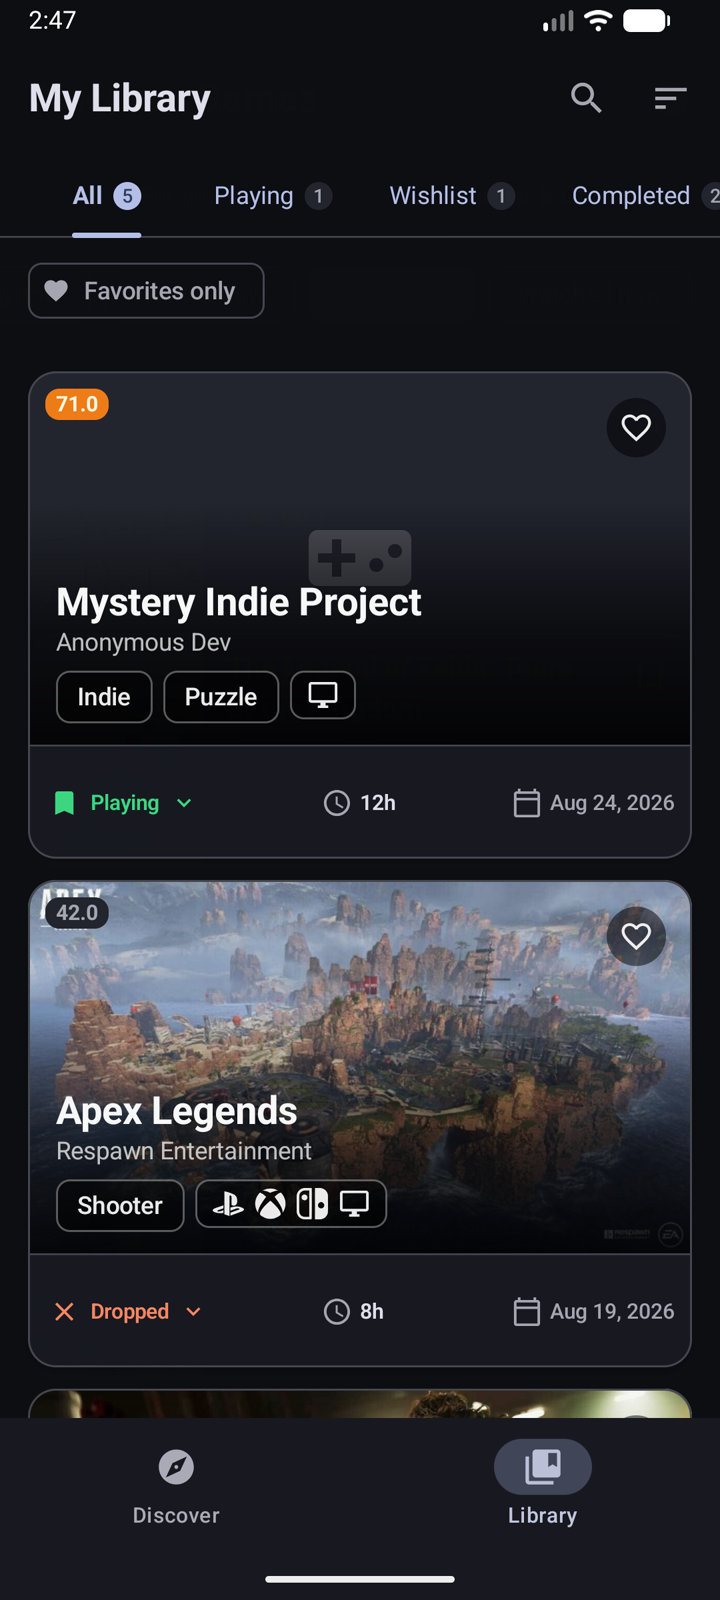
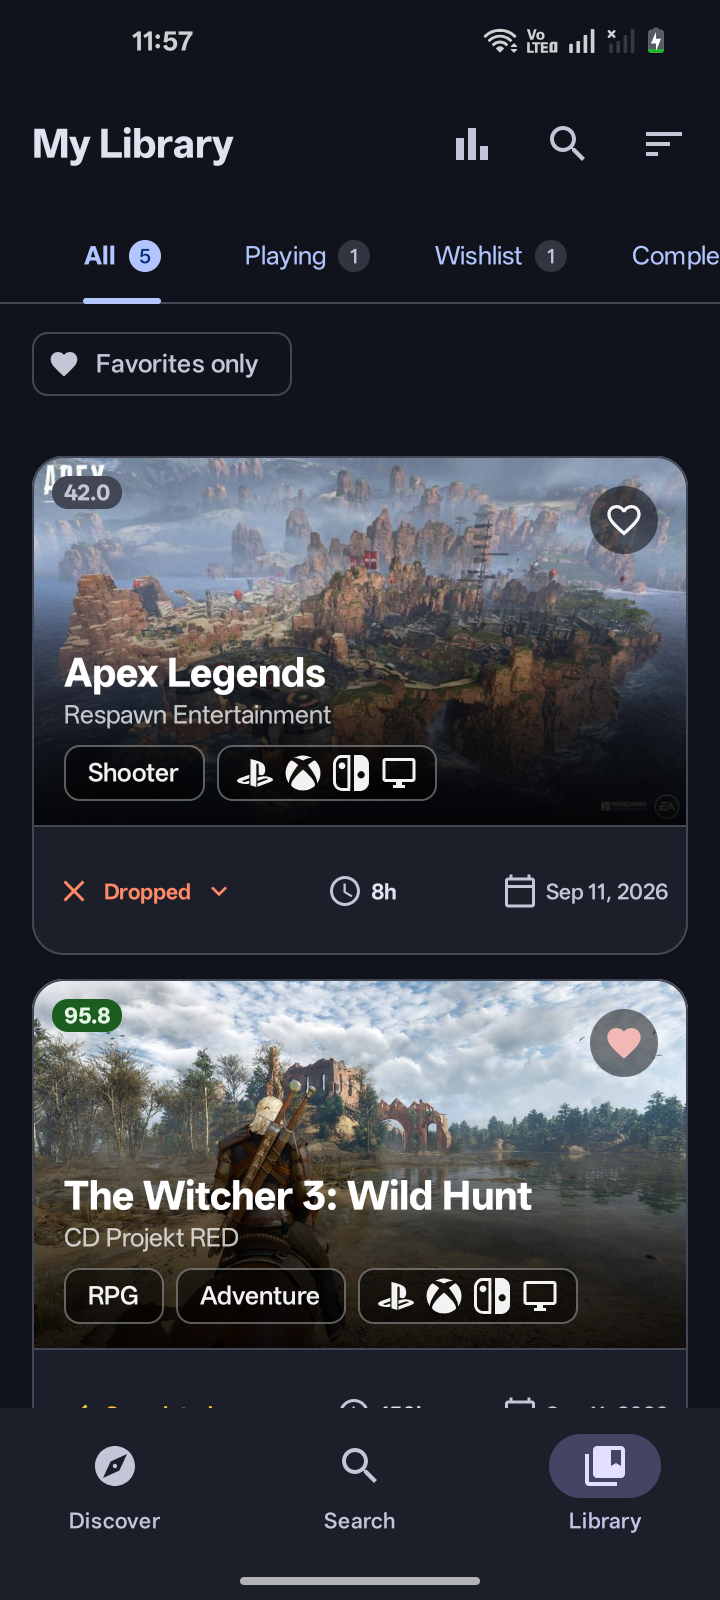
release: prepare v1.0.3 portfolio release

diff --git a/app/src/androidTest/java/io/github/typenil/gametracker/navigation/DemoNavigationFixture.kt b/app/src/androidTest/java/io/github/typenil/gametracker/navigation/DemoNavigationFixture.kt
@@ -1,0 +1,136 @@
+package io.github.typenil.gametracker.navigation
+
+import android.content.Context
+import dagger.hilt.android.EntryPointAccessors
+import io.github.typenil.gametracker.core.data.repository.GameRepository
+import io.github.typenil.gametracker.core.data.repository.LibraryRepository
+import io.github.typenil.gametracker.core.data.repository.UserPreferencesRepository
+import io.github.typenil.gametracker.core.database.GameTrackerDatabase
+import io.github.typenil.gametracker.core.model.AppResult
+import io.github.typenil.gametracker.core.model.LibraryEntry
+import io.github.typenil.gametracker.core.model.LibraryStatus
+import kotlinx.coroutines.Dispatchers
+import kotlinx.coroutines.runBlocking
+import kotlinx.coroutines.withContext
+
+/**
+ * Owns the persistent state required by navigation tests.
+ *
+ * Instrumentation classes share the installed application's Room and DataStore files, and their
+ * execution order is not a fixture contract. The developer-tools tests deliberately clear the
+ * library, while the demo seeder deliberately refuses to repopulate a resolved install. Resetting
+ * the exact catalog/library slice here keeps navigation tests independent without weakening that
+ * production behavior.
+ */
+internal object DemoNavigationFixture {
+
+    fun install(context: Context) {
+        val entryPoint = EntryPointAccessors.fromApplication(
+            context.applicationContext,
+            DebugNavigationFixtureEntryPoint::class.java,
+        )
+
+        runBlocking {
+            withContext(Dispatchers.IO) {
+                entryPoint.database().clearAllTables()
+            }
+            requireSuccess(
+                entryPoint.userPreferencesRepository().clearRecommendationPreferences(),
+                "clear recommendation preferences",
+            )
+
+            requiredGameIds.forEach { gameId ->
+                requireSuccess(
+                    entryPoint.gameRepository().refreshGameDetails(gameId, force = true),
+                    "hydrate game $gameId",
+                )
+            }
+
+            val now = System.currentTimeMillis() / 1_000L
+            starterLibraryEntries(now).forEach { entry ->
+                requireSuccess(
+                    entryPoint.libraryRepository().saveLibraryEntry(entry),
+                    "seed library game ${entry.gameId}",
+                )
+            }
+        }
+    }
+
+    private fun requireSuccess(result: AppResult<Unit>, operation: String) {
+        if (result is AppResult.Error) {
+            throw AssertionError("$operation failed: $result")
+        }
+    }
+
+
+    private val requiredGameIds = longArrayOf(
+        WITCHER_ID,
+        ELDEN_RING_ID,
+        RED_DEAD_REDEMPTION_2_ID,
+        GTA_VI_ID,
+        SPACE_INVADERS_ID,
+        DOOM_ID,
+        MYSTERY_INDIE_ID,
+        ARENA_PRO_ID,
+    )
+
+    private fun starterLibraryEntries(now: Long): List<LibraryEntry> = listOf(
+        LibraryEntry(
+            gameId = WITCHER_ID,
+            status = LibraryStatus.COMPLETED,
+            userRating = 10,
+            hoursPlayed = 150,
+            isFavorite = true,
+            addedAtEpochSeconds = now - 30 * SECONDS_PER_DAY,
+            updatedAtEpochSeconds = now - 5 * SECONDS_PER_DAY,
+        ),
+        LibraryEntry(
+            gameId = MYSTERY_INDIE_ID,
+            status = LibraryStatus.PLAYING,
+            hoursPlayed = 12,
+            addedAtEpochSeconds = now - 10 * SECONDS_PER_DAY,
+            updatedAtEpochSeconds = now - SECONDS_PER_DAY,
+        ),
+        LibraryEntry(
+            gameId = GTA_VI_ID,
+            status = LibraryStatus.WISHLIST,
+            isFavorite = true,
+            releaseNotificationsEnabled = true,
+            addedAtEpochSeconds = now - 20 * SECONDS_PER_DAY,
+            updatedAtEpochSeconds = now - 20 * SECONDS_PER_DAY,
+        ),
+        LibraryEntry(
+            gameId = DOOM_ID,
+            status = LibraryStatus.COMPLETED,
+            userRating = 9,
+            hoursPlayed = 25,
+            addedAtEpochSeconds = now - 40 * SECONDS_PER_DAY,
+            updatedAtEpochSeconds = now - 15 * SECONDS_PER_DAY,
+        ),
+        LibraryEntry(
+            gameId = ARENA_PRO_ID,
+            status = LibraryStatus.DROPPED,
+            userRating = 4,
+            hoursPlayed = 8,
+            addedAtEpochSeconds = now - 15 * SECONDS_PER_DAY,
+            updatedAtEpochSeconds = now - 2 * SECONDS_PER_DAY,
+        ),
+        LibraryEntry(
+            gameId = SPACE_INVADERS_ID,
+            status = LibraryStatus.NOT_INTERESTED,
+            addedAtEpochSeconds = now - 50 * SECONDS_PER_DAY,
+            updatedAtEpochSeconds = now - 50 * SECONDS_PER_DAY,
+        ),
+    )
+
+    private const val SECONDS_PER_DAY = 86_400L
+
+    private const val WITCHER_ID = 1_942L
+    private const val ELDEN_RING_ID = 119_133L
+    private const val RED_DEAD_REDEMPTION_2_ID = 25_076L
+    private const val GTA_VI_ID = 900_003L
+    private const val SPACE_INVADERS_ID = 900_004L
+    private const val DOOM_ID = 900_005L
+    private const val MYSTERY_INDIE_ID = 900_009L
+    private const val ARENA_PRO_ID = 900_012L
+}

diff --git a/app/src/androidTest/java/io/github/typenil/gametracker/navigation/DeepLinkNavigationTest.kt b/app/src/androidTest/java/io/github/typenil/gametracker/navigation/DeepLinkNavigationTest.kt
@@ -7,6 +7,7 @@ import androidx.compose.ui.test.assertIsDisplayed
 import androidx.compose.ui.test.assertIsFocused
 import androidx.compose.ui.test.assertTextContains
 import androidx.compose.ui.test.hasSetTextAction
+import androidx.compose.ui.test.isFocused
 import androidx.compose.ui.test.performImeAction
 import androidx.compose.ui.test.performScrollToIndex
 import androidx.compose.ui.test.performTextReplacement
@@ -27,6 +28,7 @@ import io.github.typenil.gametracker.BuildConfig
 import io.github.typenil.gametracker.MainActivity
 import io.github.typenil.gametracker.R
 import org.junit.Assert.assertEquals
+import org.junit.Before
 import org.junit.Rule
 import org.junit.Test
 import org.junit.runner.RunWith
@@ -39,6 +41,11 @@ class DeepLinkNavigationTest {
 
     private val context: Context
         get() = ApplicationProvider.getApplicationContext()
+
+    @Before
+    fun installNavigationFixture() {
+        DemoNavigationFixture.install(context)
+    }
 
     @Test
     fun coldStartDeepLink_opensGameDetails_andBackReturnsToDiscover() {
@@ -184,7 +191,7 @@ class DeepLinkNavigationTest {
             composeTestRule.onNode(hasSetTextAction()).assertTextContains("witcher")
 
             composeTestRule.onNodeWithText(searchNavLabel).performClick()
-            composeTestRule.onNode(hasSetTextAction()).assertIsFocused()
+            waitForSearchFieldFocus()
         }
     }
 
@@ -199,7 +206,7 @@ class DeepLinkNavigationTest {
             waitForText(searchHint)
 
             composeTestRule.onNodeWithText(searchNavLabel).performClick()
-            composeTestRule.onNode(hasSetTextAction()).assertIsFocused()
+            waitForSearchFieldFocus()
 
             scenario.recreate()
             waitForText(searchHint)
@@ -208,7 +215,7 @@ class DeepLinkNavigationTest {
             }
 
             composeTestRule.onNodeWithText(searchNavLabel).performClick()
-            composeTestRule.onNode(hasSetTextAction()).assertIsFocused()
+            waitForSearchFieldFocus()
             if (composeTestRule.onAllNodes(hasScrollToIndexAction())
                     .fetchSemanticsNodes()
                     .isNotEmpty()
@@ -400,6 +407,15 @@ class DeepLinkNavigationTest {
 
     private fun advanceUntilIdle() {
         composeTestRule.waitForIdle()
+    }
+
+    private fun waitForSearchFieldFocus(timeoutMillis: Long = 5_000) {
+        composeTestRule.waitUntil(timeoutMillis = timeoutMillis) {
+            composeTestRule.onAllNodes(hasSetTextAction() and isFocused())
+                .fetchSemanticsNodes()
+                .isNotEmpty()
+        }
+        composeTestRule.onNode(hasSetTextAction()).assertIsFocused()
     }
 
     private fun waitForText(text: String, timeoutMillis: Long = 10_000) {

diff --git a/app/src/debug/java/io/github/typenil/gametracker/navigation/DebugNavigationFixtureEntryPoint.kt b/app/src/debug/java/io/github/typenil/gametracker/navigation/DebugNavigationFixtureEntryPoint.kt
@@ -1,0 +1,21 @@
+package io.github.typenil.gametracker.navigation
+
+import dagger.hilt.EntryPoint
+import dagger.hilt.InstallIn
+import dagger.hilt.components.SingletonComponent
+import io.github.typenil.gametracker.core.data.repository.GameRepository
+import io.github.typenil.gametracker.core.data.repository.LibraryRepository
+import io.github.typenil.gametracker.core.data.repository.UserPreferencesRepository
+import io.github.typenil.gametracker.core.database.GameTrackerDatabase
+
+/**
+ * Debug-only graph seam for instrumentation fixtures. It is absent from release variants.
+ */
+@EntryPoint
+@InstallIn(SingletonComponent::class)
+interface DebugNavigationFixtureEntryPoint {
+    fun database(): GameTrackerDatabase
+    fun gameRepository(): GameRepository
+    fun libraryRepository(): LibraryRepository
+    fun userPreferencesRepository(): UserPreferencesRepository
+}

diff --git a/app/src/androidTest/java/io/github/typenil/gametracker/navigation/AppNavigationViewportTest.kt b/app/src/androidTest/java/io/github/typenil/gametracker/navigation/AppNavigationViewportTest.kt
@@ -16,6 +16,7 @@ import io.github.typenil.gametracker.BuildConfig
 import io.github.typenil.gametracker.MainActivity
 import io.github.typenil.gametracker.R
 import org.junit.Assert.assertEquals
+import org.junit.Before
 import org.junit.Rule
 import org.junit.Test
 import org.junit.runner.RunWith
@@ -28,6 +29,11 @@ class AppNavigationViewportTest {
 
     private val context: Context
         get() = ApplicationProvider.getApplicationContext()
+
+    @Before
+    fun installNavigationFixture() {
+        DemoNavigationFixture.install(context)
+    }
     private fun viewportBounds() = composeTestRule
         .onNodeWithTag("app-nav-viewport")
         .getUnclippedBoundsInRoot()

diff --git a/app/src/main/java/io/github/typenil/gametracker/feature/search/SearchScreen.kt b/app/src/main/java/io/github/typenil/gametracker/feature/search/SearchScreen.kt
@@ -143,11 +143,8 @@ fun SearchScreen(
     LaunchedEffect(scrollToTopTrigger) {
         if (scrollToTopTrigger > 0L && scrollToTopTrigger != lastHandledScrollToTopTrigger) {
             lastHandledScrollToTopTrigger = scrollToTopTrigger
-            if (uiState.searchActive) {
-                resultsListState.scrollToItem(0)
-            } else {
-                recentListState.scrollToItem(0)
-            }
+            val activeListState = if (uiState.searchActive) resultsListState else recentListState
+            activeListState.requestScrollToItem(0)
             focusRequester.requestFocus()
         }
     }

diff --git a/app/src/testDebug/java/io/github/typenil/gametracker/devtools/ui/DevToolsViewModelTest.kt b/app/src/testDebug/java/io/github/typenil/gametracker/devtools/ui/DevToolsViewModelTest.kt
@@ -65,8 +65,8 @@ class DevToolsViewModelTest {
 
     private fun diagnostics() = DevDiagnostics(
         applicationId = "io.github.typenil.gametracker.demo.debug",
-        versionName = "1.0.2-demo",
-        versionCode = 3,
+        versionName = "1.0.3-demo",
+        versionCode = 4,
         flavor = "demo",
         buildType = "debug",
         roomSchemaVersion = 7,

diff --git a/CHANGELOG.md b/CHANGELOG.md
@@ -9,22 +9,29 @@ and this project adheres to [Semantic Versioning](https://semver.org/spec/v2.0.0
 
 ## [Unreleased]
 
+---
+
+## [1.0.3] - 2026-09-11
+
+Post-`v1.0.2` personalization, library tooling, settings, and navigation improvements.
+
 ### Added
-- Release notifications are an explicit per-game choice rather than a side effect of library status: an **Release notifications** switch in the library edit sheet, an enabled marker on Game Details, and a background check that only inspects entries you enabled. Room schema v7 backfills `WISHLIST`/`PLAYING`/`COMPLETED` (including legacy `PLAN_TO_PLAY` rows), so reminders you already relied on carry over; newly added games start opted out and delivery stays best-effort.
-- For You contextual onboarding stores favorite genres/platforms in DataStore as decaying cold-start signals. Tune later from For You or Settings; library taste outranks onboarding prefs as it grows. **Use library only** clears those signals so ranking uses the library alone.
-- Library Insights is a nested Library screen (chart icon in the TopAppBar): counts, hours, average rating, completion, most played, taste, and platforms. Not a Profile tab.
-- Developer tools in debug builds only (Settings → **Developer tools**, or `gamertracker://dev/{state,seed,wipe}` from `adb`): a state panel with copy-to-clipboard, deterministic seed presets (`REALISTIC`, `COVERAGE`, `EDGE`, `STRESS`, `NOTIFICATIONS`) written through the same path as a real library Import, and selective clears for the library, search history and the notification ledger. The screen and its Activity live in `app/src/debug`, the release entry point is a no-op, and `verifyReleaseArtifacts` proves both release APKs are free of the component.
+- Release notifications are an explicit per-game choice rather than a side effect of library status: a **Release notifications** switch in the library edit sheet, an enabled marker on Game Details, and a background check that only inspects entries you enabled. Room schema v7 backfills `WISHLIST`/`PLAYING`/`COMPLETED` (including legacy `PLAN_TO_PLAY` rows), so reminders you already relied on carry over; newly added games start opted out and delivery stays best-effort.
+- For You contextual onboarding stores favorite genres/platforms in DataStore as decaying cold-start signals. Tune later from For You or Settings; library taste outranks onboarding preferences as it grows. **Use library only** clears those signals so ranking uses the library alone.
+- Library Insights is a nested Library screen (chart icon in the TopAppBar) with counts, hours, average rating, completion, most played, taste, and platforms.
+- Library export/import uses Android's Storage Access Framework and a versioned JSON format with merge/replace preview counts. Exports are checked against the same 8 MiB import limit so every successful backup can be restored.
+- Appearance preferences persist System/Light/Dark theme selection and dynamic color when supported.
+- Developer tools are available in debug builds only (Settings → **Developer tools**, or `gametracker://dev/{state,seed,wipe}` from `adb`): a state panel with copy-to-clipboard, deterministic seed presets (`REALISTIC`, `COVERAGE`, `EDGE`, `STRESS`, `NOTIFICATIONS`) written through the same path as a real library import, and selective clears for the library, search history, and notification ledger. The release entry point is a no-op, and `verifyReleaseArtifacts` proves both release APKs are free of the component.
 
 ### Changed
 - Search is a top-level destination in bottom navigation (`Discover | Search | Library`). Query, filters, paging results, and scroll restore across tab switches; re-tapping Search focuses the field and scrolls to top.
 - Settings actions are uniform: every button spans its card with a centred label, and the IGDB attribution is a card like every other section instead of sitting one gutter further left than the content above it.
-- Settings was rebuilt on the app's section vocabulary: `SectionCard`/`SectionTitle` now live in the design system (the Library Insights screen uses them too instead of its own copy), section headings are exposed as headings, and every section shares one container role, shape and 12dp rhythm. Actions that navigate are rows with a leading icon and a trailing affordance — a chevron in-app, `OpenInNew` for the two external links — while commands stay buttons, so nine identical full-width buttons no longer hide what each one does. App information and the IGDB attribution merged into one card, and the Russian card title no longer duplicates the screen title («О приложении» appeared twice).
+- Settings was rebuilt on the app's section vocabulary: `SectionCard`/`SectionTitle` now live in the design system (the Library Insights screen uses them too instead of its own copy), section headings are exposed as headings, and every section shares one container role, shape, and 12dp rhythm. Actions that navigate are rows with a leading icon and a trailing affordance — a chevron in-app, `OpenInNew` for the two external links — while commands stay buttons. App information and the IGDB attribution merged into one card, and the Russian card title no longer duplicates the screen title («О приложении» appeared twice).
 - The tune-recommendations sheet marks each platform chip with the same platform icons the cards and Library Insights already use, so `PlayStation | Xbox | Nintendo Switch | PC` read as platforms before the label is read. The stored preference maps to the icon family through an exhaustive `when`, so adding a platform fails the build instead of the sheet.
-
 
 ### Fixed
 - Library export now rejects payloads over the 8 MiB import cap instead of writing a backup the app cannot re-import.
-- Search and Discover bottom-nav re-taps survive Activity recreation: the trigger counters now use the same saveable lifetime as the screens that consume them.
+- Search and Discover bottom-nav re-taps now survive Activity recreation, and Search retaps focus the field and return the active list to the top even before any content list is attached.
 - Loading skeletons on Search, Discover, Library, Details, and Insights now share the loaded cards' chrome and major slots so content does not jump in.
 - The demo flavor seeds its starter library once per install instead of whenever the library is empty, so deleting every game — or clearing the library from the developer tools — no longer brings the curated entries back. Installations that predate the marker are recognised and never repopulated, including when their library is already empty.
 - Clearing everything no longer leaves Discover showing nothing. Wiping the database left `DiscoverRailLoader` holding page offsets and `endReached` flags for rows that no longer existed, so the rails saw an empty cache and still never refetched. The full reset now relaunches the app, which is what that target promises.

diff --git a/docs/DEMO_SCENARIOS.md b/docs/DEMO_SCENARIOS.md
@@ -52,7 +52,7 @@ adb shell am start -W \
 ---
 
 ## 3. Фоновая проверка релизов через WorkManager
-Приложение в фоне сверяет даты выхода игр из библиотеки. Это **best-effort**: WorkManager не обещает доставку в момент релиза, а переход даты может быть потерян, если details уже обновил UI-кэш до worker или процесс остановился до записи события. Повторные показы дедуплицируются по `(gameId, eventType)`.
+Приложение в фоне сверяет даты выхода игр из библиотеки. Это **best-effort**: WorkManager не обещает доставку в момент релиза, а переход даты может быть потерян, если details уже обновил UI-кэш до worker или процесс остановился до записи события. Повторные показы дедуплицируются по уникальному `eventKey`, включающему игру, тип события и релевантные даты.
 
 1. Откройте **Настройки** с экрана Discover: кнопка с иконкой информации в верхней панели (это не вкладка нижней навигации).
 2. Найдите блок **«Фоновые уведомления»** и нажмите **«Проверить релизы сейчас»**.
@@ -97,7 +97,41 @@ adb shell dumpsys jobscheduler | grep -i gametracker
 
 ---
 
-## 5. Решение проблем с установкой и подписью
+## 5. Debug-only developer tools
+
+Debug-варианты содержат отдельный экран **Developer tools** в Settings. Он позволяет посмотреть диагностику, заполнить библиотеку детерминированным набором данных и выборочно очистить пользовательское состояние. В подписанные release APK этот компонент не попадает.
+
+Те же операции можно запускать через `adb` по URI `gamertracker://dev/`:
+
+```bash
+# Состояние базы и сборки.
+adb shell am start -W \
+  -a android.intent.action.VIEW \
+  -d "gamertracker://dev/state" \
+  io.github.typenil.gametracker.demo.debug
+
+# Детерминированный набор для проверки всех статусов.
+adb shell am start -W \
+  -a android.intent.action.VIEW \
+  -d "gamertracker://dev/seed?preset=COVERAGE&count=12&mode=replace" \
+  io.github.typenil.gametracker.demo.debug
+
+# Большая библиотека для проверки прокрутки и производительности.
+adb shell am start -W \
+  -a android.intent.action.VIEW \
+  -d "gamertracker://dev/seed?preset=STRESS&count=150&mode=replace" \
+  io.github.typenil.gametracker.demo.debug
+
+# Очистить только пользовательскую библиотеку.
+adb shell am start -W \
+  -a android.intent.action.VIEW \
+  -d "gamertracker://dev/wipe?target=LIBRARY" \
+  io.github.typenil.gametracker.demo.debug
+```
+
+Доступные preset: `REALISTIC`, `COVERAGE`, `EDGE`, `STRESS`, `NOTIFICATIONS`. Для полного сброса используйте `target=ALL`; после успешного сброса приложение перезапускается, чтобы Discover заново построил свои in-memory состояния.
+
+## 6. Решение проблем с установкой и подписью
 
 Если при установке APK возникает ошибка несовпадения сертификатов подписи:
 ```

diff --git a/docs/SECURITY.md b/docs/SECURITY.md
@@ -81,7 +81,7 @@ IGDB использует собственный язык запросов **API
 
 - **Локальное хранение данных библиотеки**: Оценки, заметки, статусы прохождения игр и сыгранные часы хранятся в Room SQLite на устройстве. Они **не отправляются на BFF как raw fields и не уходят в аналитику**. При `allowBackup=true` база `gametracker.db` может участвовать в облачном резервном копировании Android и в device transfer — это не синхронизация аккаунта GameTracker, а транспорт ОС.
 - **Рекомендации**: ranking выполняется на устройстве. В `live` запрос кандидатов передаёт до 50 идентификаторов игр библиотеки как `exclude`, до 10 seed IDs как `similarTo` и derived-теги предпочтений. Оценки, статусы, заметки и часы как raw fields не передаются, но по идентификаторам BFF может увидеть часть или весь состав небольшой библиотеки. Это не analytics upload, однако запрос содержит пользовательские preference signals.
-- **Уведомления о релизе**: best-effort (WorkManager + дедуп по типу события). Это не at-least-once: переход даты может быть потерян, если его не записали до остановки процесса.
+- **Уведомления о релизе**: best-effort и только для игр, где пользователь явно включил переключатель (WorkManager + дедуп по `eventKey`, включающему игру, тип события и релевантные даты). Это не at-least-once: переход даты может быть потерян, если его не записали до остановки процесса.
 - **Маскирование логов**: Сетевые интерцепторы и логгеры Ktor санитизируют чувствительные заголовки (`Authorization`, токены). Обработчик ошибок логирует только path запроса, без query string; поисковые маршруты пишут `queryLength` и наличие фильтров, а не полный `q`.
 - **Унификация ошибок**: Внутренние исключения бэкенда (стектрейсы, сбои базы данных или сетевые таймауты) никогда не отдаются наружу клиенту. Публичный контракт возвращает унифицированный безопасный объект `ErrorResponse`.
 
